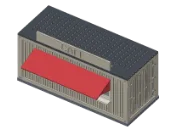
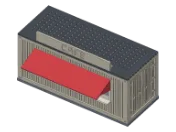
Buildings: a roof billboard's fins are parts of their own
The fins were part of the billboard, so it printed face down and its
text could only be carved. Now the board prints on its back, face up,
and its text is raised or cut in like any sign; each fin is a part of
its own, lying on its side, glued against the back of the board 3 mm
in from its end (a groove there would open onto the plate and print
over air). The V-groove carving is gone. The README says where the
fins go; five thumbnails are rendered afresh.

diff --git a/tests/lettering.test.js b/tests/lettering.test.js
@@ -2,9 +2,10 @@
 import test from 'node:test';
 import assert from 'node:assert/strict';
 import Module from 'manifold-3d';
-import { buildGarage, validateBuilding } from '../src/geometry/building.js';
+import { buildGarage, buildingLayout, validateBuilding } from '../src/geometry/building.js';
+const buildingLayoutIds = (b) => buildingLayout(b).parts.map((p) => p.id);
 import { BUILDING_PRESETS } from '../src/building-presets.js';
-import { LETTERS, LETTERING, checkText, fitHeight, textShape, textStrokes, textWidth, textCarve } from '../src/geometry/lettering.js';
+import { LETTERS, LETTERING, checkText, fitHeight, textShape, textStrokes, textWidth } from '../src/geometry/lettering.js';
 import { checkKit } from './print-checks.js';
 
 const wasm = await Module();
@@ -31,13 +32,10 @@ test('the letters: capitals and figures, as wide as they say, strokes thick enou
   assert.equal(textStrokes('A', 4).stroke, LETTERING.thinnest);
   assert.ok(Math.abs(textWidth('HQ', fitHeight('HQ', 30, 100)) - 30) < 1e-3, 'fits the width');
   assert.equal(fitHeight('HQ', 300, 12), 12, 'or the height');
-  // Carved: grooves no deeper than half again their width, inside the face.
-  const { solid, depth } = textCarve(wasm, own, 'HQ', 10);
-  assert.ok(depth > 0 && depth < 1.2 && Math.abs(solid.boundingBox().min[2] + depth) < 1e-6);
   temp.splice(0).forEach((s) => s.delete());
 });
 
-test('a fascia sign: its text raised on its face; a roof billboard: carved in', () => {
+test('a fascia sign and a roof billboard: their text raised on the face, or cut in', () => {
   const fascia = { ...plain, sign: 'fascia', signWidth: 100, signHeight: 14 };
   const bare = buildGarage(wasm, fascia), lettered = buildGarage(wasm, { ...fascia, signText: 'Pit stop' });
   try {
@@ -49,12 +47,17 @@ test('a fascia sign: its text raised on its face; a roof billboard: carved in', 
     free(lettered);
   }
   const board = { ...plain, sign: 'billboard', signWidth: 110, signHeight: 20 };
-  const plainBoard = buildGarage(wasm, board), carved = buildGarage(wasm, { ...board, signText: 'Race control' });
+  const plainBoard = buildGarage(wasm, board), raised = buildGarage(wasm, { ...board, signText: 'Race control' }), cut = buildGarage(wasm, { ...board, signText: 'Race control', signCut: true });
   try {
-    assert.ok(part(carved, 'sign').solid.volume() < part(plainBoard, 'sign').solid.volume() - 5, 'grooves cut');
+    const v = (ps) => part(ps, 'sign').solid.volume();
+    assert.ok(v(raised) > v(plainBoard) + 5 && v(cut) < v(plainBoard) - 5, 'raised or cut');
+    // Raised out of its face, which looks to the front and prints up.
+    assert.ok(Math.abs(part(raised, 'sign').solid.boundingBox().min[1] - (part(plainBoard, 'sign').solid.boundingBox().min[1] - LETTERING.depth)) < 1e-6);
+    assert.deepEqual(part(raised, 'sign').outward, [0, -1, 0]);
   } finally {
     free(plainBoard);
-    free(carved);
+    free(raised);
+    free(cut);
   }
   assert.throws(() => validateBuilding({ ...fascia, signWidth: 30, signText: 'Race control headquarters' }), /too small for/);
   assert.equal(validateBuilding({ ...fascia, signText: 'hq' }).signText, 'HQ');
@@ -110,7 +113,7 @@ test('lettering is checked: its wall, its letters, clear of ends, openings, door
   assert.equal(validateBuilding({ ...plain, upper: [{ height: 40, lettering: [line({ up: 20, text: 'hq' })] }] }).upper[0].lettering[0].text, 'HQ');
 });
 
-test('lettered kits print: whole pieces, nothing over air (carved billboard included), nothing in another part', () => {
+test('lettered kits print: whole pieces, nothing over air (roof billboard and its fins included), nothing in another part', () => {
   const plate = { width: 200, depth: 200, margin: 0 };
   for (const b of [
     { ...plain, wallTexture: 'brick', sign: 'fascia', signWidth: 110, signHeight: 14, signText: 'Pit lane', lettering: [line({ wall: 'left', at: 60 }), line({ wall: 'back', cut: true, text: 'No 7' })] },
@@ -213,4 +216,26 @@ test('every text can be cut in instead of raised: less than the plain part, stil
     else assert.ok(volumes.cut < volumes.plain - 1 && volumes.raised > volumes.plain + 1, (b.kind ?? 'garage') + ': ' + JSON.stringify(volumes));
   }
   assert.throws(() => validateBuilding({ kind: 'gantry', textCut: 'yes' }), /raised or cut/);
+});
+
+// The fins were part of the billboard, which then printed face down; now they are parts of
+// their own, so the board prints face up and its text can be raised.
+test('a roof billboard and its two fins: separate parts, each fin against the back of the board', () => {
+  const plate = { width: 200, depth: 200, margin: 0 };
+  for (const roof of [{ roof: 'flat' }, { roof: 'slope', rises: 'back', pitch: 15 }, { roof: 'gable', ridge: 'width', pitch: 20 }]) {
+    const b = { ...plain, ...roof, sign: 'billboard', signWidth: 110, signHeight: 20, signText: 'Timing' };
+    const parts = buildGarage(wasm, b, plate);
+    try {
+      const ids = parts.map((p) => p.id);
+      assert.ok(['sign', 'sign-fin-1', 'sign-fin-2'].every((id) => ids.includes(id)), roof.roof + ': ' + ids);
+      checkKit(parts, plate, roof.roof + ': ');
+      // Each fin stands against the back of the board, not in it.
+      const board = part(parts, 'sign').solid.boundingBox(), fin = part(parts, 'sign-fin-1').solid.boundingBox();
+      assert.ok(Math.abs(fin.min[1] - board.max[1]) < 1e-6, 'against the back');
+      assert.ok(fin.max[2] < board.max[2], 'no higher than the board');
+    } finally {
+      free(parts);
+    }
+  }
+  assert.deepEqual(validateBuilding({ ...plain, sign: 'billboard' }) && buildingLayoutIds({ ...plain, sign: 'billboard' }).filter((id) => id.startsWith('sign')), ['sign', 'sign-fin-1', 'sign-fin-2']);
 });

diff --git a/src/geometry/building.js b/src/geometry/building.js
@@ -24,7 +24,7 @@ import { buildWalkway, validateWalkway, walkwayLayout } from './walkway.js';
 import { buildPitBays, pitBaysLayout, validatePitBays } from './pit-bays.js';
 import { checkContainer, containerWall, containerRoof } from './container-details.js';
 import { kitShapes } from './kit-shapes.js';
-import { LETTERING, checkText, fitHeight, textCarve, textShape, textWidth } from './lettering.js';
+import { LETTERING, checkText, fitHeight, letterDepth, raisedText, textShape, textWidth } from './lettering.js';
 import { validateConnected, connectedLayout, buildConnected } from './connected-building.js';
 import { validateFootprint, footprintLayout, buildFootprint } from './footprint-building.js';
 
@@ -78,8 +78,8 @@ export const BUILDING_DEFAULTS = Object.freeze({
   // front edge. signWidth along the front, in the middle; signHeight its
   // height, a billboard's above the roof.
   sign: 'none',
-  signText: '', // lettered on the sign: raised on a fascia sign, cut into the face of a roof billboard
-  signCut: false, // a fascia sign's letters cut in, not raised (a roof billboard's are always carved)
+  signText: '', // lettered on the sign, raised
+  signCut: false, // the sign's letters cut in, not raised
   // Lettering on the walls of the ground floor: { wall, text, at (its middle along the wall), up (its middle above the floor), height, cut }.
   lettering: Object.freeze([]),
   signWidth: 80,
@@ -1112,6 +1112,7 @@ export function buildingLayout(input) {
       if (o.step) parts.push({ id: 'step-' + (i + 1), name: openingName(o, s.openings) + ' step', role: 'buildingBase' });
     });
   if (b.sign !== 'none') parts.push({ id: 'sign', name: b.sign === 'billboard' ? 'Billboard' : 'Sign', role: 'wall' });
+  if (b.sign === 'billboard') parts.push({ id: 'sign-fin-1', name: 'Billboard fin 1', role: 'frame' }, { id: 'sign-fin-2', name: 'Billboard fin 2', role: 'frame' });
   return { building: b, storeys, parts, doors };
 }
 
@@ -1972,8 +1973,10 @@ export function buildGarage(wasm, input, plate = null) {
     }
     // A billboard: a board standing on the roof just inside its front edge,
     // over the middle of the top storey, its foot following the roof; two
-    // fins behind it rest on the roof and hold it upright. It prints on its
-    // face, the fins up.
+    // fins behind it rest on the roof and hold it upright. The board prints on
+    // its back, its face up; the fins are parts of their own, lying on their
+    // side, each glued flat against the back of the board, 3 mm in from its end
+    // (a groove there would open onto the plate and print over air).
     if (b.sign === 'billboard') {
       const tops = storeys.at(-1);
       const roofs = own(Manifold.union(parts.filter((p) => p.role === 'roof').map((p) => p.solid)));
@@ -1998,19 +2001,24 @@ export function buildGarage(wasm, input, plate = null) {
       const k = (zc - zf) / (yb + fl - yf),
         n = Math.hypot(k, 1);
       const foot = Math.min(zf, zb, zc) - dip;
-      const board = box(x0, yf, foot, x1, yb, Math.max(zf, zb) + b.signHeight);
-      const fins = [x0 + 3, x1 - 3 - fw].map((fx) => sweep([[yb - 0.4, zb - dip], [yb - 0.4, zb + fh], [yb + fl, zc - dip]], [0, 1, 0], [0, 0, 1], [0, 0, 0], [1, 0, 0], fx, fx + fw));
-      let whole = own(Manifold.union([board, ...fins]));
-      // Its text carved into its face: the billboard prints face down, so raised letters would hang
-      // over air; V-grooves steeper than 45° print clean. The text's frame: x along, y up, z out of the face.
+      const top = Math.max(zf, zb) + b.signHeight;
+      let board = box(x0, yf, foot, x1, yb, top);
+      // The fins: against the back of the board, no higher than it.
+      const finTop = Math.min(zb + fh, top - 1.5);
+      const finAt = [x0 + 3, x1 - 3 - fw];
+      // Its text, raised on its face or cut into it: the face prints up. The text's frame: x along, y up, z out of the face.
       if (b.signText) {
-        const h = fitHeight(b.signText, b.signWidth - 4, b.signHeight - 4), shown = Math.max(zf, zb);
-        const { solid: carve } = textCarve(wasm, own, b.signText, h);
-        const u = (x0 + x1) / 2 - textWidth(b.signText, h) / 2, v = shown + b.signHeight / 2 - h / 2;
-        whole = own(whole.subtract(own(carve.transform([1, 0, 0, 0, 0, 0, 1, 0, 0, -1, 0, 0, u, yf, v, 1]))));
+        const h = fitHeight(b.signText, b.signWidth - 4, b.signHeight - 4);
+        const letters = own(raisedText(wasm, own, b.signText, h, [0, 0], ...letterDepth(b.signCut)).transform([1, 0, 0, 0, 0, 0, 1, 0, 0, -1, 0, 0, (x0 + x1) / 2, yf, Math.max(zf, zb) + b.signHeight / 2, 1]));
+        board = own(b.signCut ? board.subtract(letters) : board.add(letters));
       }
-      const solid = trim(whole, [0, -k / n, 1 / n], (zf - k * yf) / n);
-      parts.push({ id: 'sign', name: 'Billboard', role: 'wall', solid, outward: [0, 1, 0], apart: [0, 0, APART.roof + 25] });
+      // The board and the fins stand on the roof's plane.
+      const onRoof = (solid) => trim(solid, [0, -k / n, 1 / n], (zf - k * yf) / n);
+      parts.push({ id: 'sign', name: 'Billboard', role: 'wall', solid: onRoof(board), outward: [0, -1, 0], apart: [0, 0, APART.roof + 25] });
+      finAt.forEach((fx, i) => {
+        const fin = sweep([[yb, zb - dip], [yb, finTop], [yb + fl, zc - dip]], [0, 1, 0], [0, 0, 1], [0, 0, 0], [1, 0, 0], fx, fx + fw);
+        parts.push({ id: 'sign-fin-' + (i + 1), name: 'Billboard fin ' + (i + 1), role: 'frame', solid: onRoof(fin), outward: [1, 0, 0], apart: [i ? 8 : -8, 12, APART.roof + 25] });
+      });
     }
     if (b.standType !== 'none') {
       const H = b.standHeight;

diff --git a/src/building-kit.js b/src/building-kit.js
@@ -21,11 +21,10 @@ function letteringNote(b) {
   const lines = [...(b.lettering ?? []), ...(b.upper ?? []).flatMap((u) => u.lettering ?? [])];
   if (!lines.length && !(b.signText && b.sign !== 'none')) return [];
   const out = [];
-  if (b.signText && b.sign === 'fascia') out.push('“' + b.signText + '” ' + (b.signCut ? 'is cut 0.6 mm into' : 'stands 0.6 mm proud on') + ' the face of the sign.');
-  if (b.signText && b.sign === 'billboard') out.push('“' + b.signText + '” is carved into the face of the billboard in V-grooves, so it prints face down without supports.');
+  if (b.signText && b.sign !== 'none') out.push('“' + b.signText + '” ' + (b.signCut ? 'is cut 0.6 mm into' : 'stands 0.6 mm proud on') + ' the face of the ' + (b.sign === 'billboard' ? 'billboard' : 'sign') + '.');
   if (lines.some((l) => !l.cut)) out.push('Raised lettering on the walls: ' + lines.filter((l) => !l.cut).map((l) => '“' + l.text + '”').join(', ') + '.');
   if (lines.some((l) => l.cut)) out.push('Cut lettering on the walls: ' + lines.filter((l) => l.cut).map((l) => '“' + l.text + '”').join(', ') + '.');
-  return ['Lettering: ' + out.join(' ') + ' Paint raised letters with a fine brush, or roll a little paint over them on a flat card; fill cut or carved letters with paint and wipe the face clean while it is wet.'];
+  return ['Lettering: ' + out.join(' ') + ' Paint raised letters with a fine brush, or roll a little paint over them on a flat card; fill cut letters with paint and wipe the face clean while it is wet.'];
 }
 // The glazing template, when there are windows to glaze.
 const glazingNote = (b) => (glazingSheets(b).length ? ['Glazing: glazing.svg has the clear sheet for each window, full size. Print it at 100 %, cut the sheets from clear plastic 0.3 to 0.5 mm thick, and glue each behind its window on the inside of its wall before the walls go together.'] : []);
@@ -114,7 +113,7 @@ export function kitNotes(name, b, parts, sizes) {
     ...(parts.some((p) => /^counter/.test(p.id)) ? ['Glue each counter under its window, level, its fins flat against the wall below it.'] : []),
     ...(parts.some((p) => /^flap/.test(p.id)) ? ['Glue each flap over its window, propped open: the back edge of its two fins against the wall' + (framed ? ' or the frame' : '') + ' sets its angle.'] : []),
     ...(b.sign === 'fascia' ? ['Glue the sign along the top of the front wall, under the eaves, for the name of the stall.'] : []),
-    ...(b.sign === 'billboard' ? ['Stand the billboard on the roof at its front edge, its foot following the roof and its two fins resting on the roof behind it, and glue it.'] : []),
+    ...(b.sign === 'billboard' ? ['Glue the two fins upright against the back of the billboard, 3 mm in from each end, their long side on the roof behind it. Stand the billboard on the roof at its front edge, its foot following the roof, and glue it and its fins down.'] : []),
     ...(parts.some((p) => /^number/.test(p.id))
       ? [(b.upper?.[0]?.balcony ? 'Glue each bay number under the front edge of the balcony, over its door.' : 'Glue each bay number on the wall above its door.') + ' Paint the raised number, or print the plaque in two colours.']
       : []),

diff --git a/src/geometry/lettering.js b/src/geometry/lettering.js
@@ -117,33 +117,6 @@ export function textShape(wasm, own, text, height) {
 }
 
 /**
- * The text carved in V-grooves, for a face that prints face down: each
- * stroke a groove whose sides are steeper than 45°, so no part of it prints
- * over air. In the text's own frame: x along, y up the face, z out of it:
- * from just outside the face down to -depth. The strokes keep their places, thinner.
- */
-export function textCarve(wasm, own, text, height) {
-  const { Manifold } = wasm;
-  const { lines } = textStrokes(text, height);
-  const w = Math.min(1.6, Math.max(LETTERING.thinnest, height * 0.1)),
-    r = w / 2,
-    deep = r * 1.1;
-  const ring = (x, y, z, rr) => Array.from({ length: 12 }, (_, k) => [x + rr * Math.cos((k * Math.PI) / 6), y + rr * Math.sin((k * Math.PI) / 6), z]);
-  const bits = [];
-  for (const line of lines) {
-    for (const [x, y] of line) bits.push(own(Manifold.hull([...ring(x, y, 0.05, r), ...ring(x, y, 0, r), [x, y, -deep]])));
-    for (let i = 1; i < line.length; i++) {
-      const [x0, y0] = line[i - 1], [x1, y1] = line[i], len = Math.hypot(x1 - x0, y1 - y0);
-      if (len < 1e-6) continue;
-      const nx = (-(y1 - y0) / len) * r, ny = ((x1 - x0) / len) * r;
-      const face = (z) => [[x0 + nx, y0 + ny, z], [x0 - nx, y0 - ny, z], [x1 - nx, y1 - ny, z], [x1 + nx, y1 + ny, z]];
-      bits.push(own(Manifold.hull([...face(0.05), ...face(0), [x0, y0, -deep], [x1, y1, -deep]])));
-    }
-  }
-  return { solid: own(Manifold.union(bits)), depth: deep };
-}
-
-/**
  * Raised text on a face, as a solid to add to it: in the face's frame, u
  * along it, v up it, w out of it. Its middle at (u, v); from w0 (a little into
  * the face) out to the face plus the letters' depth.

diff --git a/src/buildings-page.js b/src/buildings-page.js
@@ -1225,8 +1225,6 @@ export function createBuildingsPage({ host, call, store, download, notice, plate
     else {
       for (const b of host.querySelectorAll('[data-bd-roof]')) b.setAttribute('aria-pressed', String(b.dataset.bdRoof === building.roof));
       $('[data-bd-sign-size]').hidden = building.sign === 'none';
-      // A roof billboard prints face down: its letters are always carved in.
-      $('[data-bd-sign-cut]').hidden = building.sign !== 'fascia';
       $('[data-bd-stand-size]').hidden = building.standType === 'none';
       $('[data-bd-column]').hidden = building.standType !== 'column';
       $('[data-bd-legs]').hidden = building.standType !== 'legs';

diff --git a/docs/GUIDE.md b/docs/GUIDE.md
@@ -213,7 +213,7 @@ The kit has a base plate (hollow underneath, with a groove for the walls), four 
 
 **Walkway bridge.** **Start from → Walkway bridge** is a covered walkway between two buildings, open at its ends where it meets them. Under **Walkway** set its **Length** to the gap between them, its **Width**, its **Wall height**, the **Deck above the table** as high as the floors it joins, the **Wall under the windows** and the **Panes along each side**; **On legs at its ends** stands it on legs, or leave it off to rest it on the buildings. **A tower at each end** makes it a whole piece: two towers (**Tower width**, **Tower depth**, **Tower height**, a **Pyramid** or **Flat** roof, windows up each front and back, one above the other), each built like a building of its own, a doorway in its wall where the walkway joins it at the height of its deck. **Control cab on top** puts a cab on the left, the right or both towers: a band of glazing leaning out, an open terrace over it under the roof. **Start from → Towers with a walkway** and **Control tower and crosswalk** (high over the track, a cab on the right tower) are made this way. Each side stands in a groove along the deck with a band of windows; the roof's two rails hold the sides apart. The deck prints the right way up, the roof upside down, the sides flat.
 
-**Serving hatches and signs.** A window can be a serving hatch: tick **Counter under it** for a level shelf below it, and **Flap propped open over it** for its shutter, leaning out over the window. Each prints flat, its top on the plate, with two small fins that stand up from it; glued on, the back edge of the fins lies on the wall (or on the window's frame) and sets the angle. **Flap angle, down from level** sets how far a flap leans out, from 0° (level) to 60°; its fins follow. A counter needs the window at least 15 mm up from the floor. **Sign** adds a board for the name of a stall, **Sign width** wide in the middle of the front: **Along the top of the front wall**, under the eaves, with everything in the front wall under it; or **A billboard on the roof**, standing up at the front edge of the roof, **Sign height** above it, its foot following the roof and two fins behind it resting on the roof. A billboard needs a roof that is level along the front: a flat roof, a single slope rising to the front or the back, or a two-sided roof with its ridge side to side. **Sign text** letters it, as large as the board allows with 2 mm clear all round: on a sign along the wall raised 0.6 mm, or 0.6 mm deep with **Cut in, not raised**, as it prints face up; on a roof billboard always carved in V-grooves steeper than 45°, because the billboard prints face down. **+ Lettering** under **Windows and doors** puts words on the chosen wall of the chosen storey: its **Text**, **Letters high** (4 to 40 mm), **Place** and **Up from the floor** (its middle), and **Cut in, not raised**. It keeps 4 mm from the ends of the wall and clear of windows, doors and their frames, the garage doors, the sign, the plinth and cornice, a container's rails, and other lettering; a texture keeps clear behind it, so the letters stand on a smooth patch. The letters are plain block capitals, A to Z, 0 to 9 and - + . , ' ! : / & #, their strokes at least 0.8 mm; lowercase letters come out as capitals. A billboard or hoarding by the track has **Text** too, raised on its face and shared by its pieces. Lettering shows in **Draw → Wall elevation**, and the README says how to paint it. Every other text has **Cut in, not raised** too, to engrave it rather than emboss it. A start gantry has **Board text** for its board (START, FINISH); on a lattice or timber board with start lights the text goes above them, and planks keep smooth behind it. A flag waver's post has **Board text** for its board, and a pit building a **Name board** along its fascia or over its doors: a flat plate with its letters raised or cut, glued on like the bay numbers, in their place. The standard buildings carry plain names, never brands: RACE CONTROL, RACE HQ, PRESS, VIP, CONTROL, a cross and FIRST AID, the marshal huts POST 1 to POST 6, the stalls' signs, START and FINISH on the gantries. Connected and shaped buildings have no lettering yet. **Start from → Container booth**, **Twin kiosk**, **Refreshment kiosk** and **Ticket office** are food and ticket stalls made this way, with two-sided roofs and billboards; print the ticket office twice for a pair.
+**Serving hatches and signs.** A window can be a serving hatch: tick **Counter under it** for a level shelf below it, and **Flap propped open over it** for its shutter, leaning out over the window. Each prints flat, its top on the plate, with two small fins that stand up from it; glued on, the back edge of the fins lies on the wall (or on the window's frame) and sets the angle. **Flap angle, down from level** sets how far a flap leans out, from 0° (level) to 60°; its fins follow. A counter needs the window at least 15 mm up from the floor. **Sign** adds a board for the name of a stall, **Sign width** wide in the middle of the front: **Along the top of the front wall**, under the eaves, with everything in the front wall under it; or **A billboard on the roof**, standing up at the front edge of the roof, **Sign height** above it, its foot following the roof and two fins behind it resting on the roof. A billboard needs a roof that is level along the front: a flat roof, a single slope rising to the front or the back, or a two-sided roof with its ridge side to side. **Sign text** letters it, as large as the board allows with 2 mm clear all round: raised 0.6 mm, or 0.6 mm deep with **Cut in, not raised**: a sign along the wall and a roof billboard both print face up. A roof billboard's two fins are parts of their own, glued against its back 3 mm in from each end. **+ Lettering** under **Windows and doors** puts words on the chosen wall of the chosen storey: its **Text**, **Letters high** (4 to 40 mm), **Place** and **Up from the floor** (its middle), and **Cut in, not raised**. It keeps 4 mm from the ends of the wall and clear of windows, doors and their frames, the garage doors, the sign, the plinth and cornice, a container's rails, and other lettering; a texture keeps clear behind it, so the letters stand on a smooth patch. The letters are plain block capitals, A to Z, 0 to 9 and - + . , ' ! : / & #, their strokes at least 0.8 mm; lowercase letters come out as capitals. A billboard or hoarding by the track has **Text** too, raised on its face and shared by its pieces. Lettering shows in **Draw → Wall elevation**, and the README says how to paint it. Every other text has **Cut in, not raised** too, to engrave it rather than emboss it. A start gantry has **Board text** for its board (START, FINISH); on a lattice or timber board with start lights the text goes above them, and planks keep smooth behind it. A flag waver's post has **Board text** for its board, and a pit building a **Name board** along its fascia or over its doors: a flat plate with its letters raised or cut, glued on like the bay numbers, in their place. The standard buildings carry plain names, never brands: RACE CONTROL, RACE HQ, PRESS, VIP, CONTROL, a cross and FIRST AID, the marshal huts POST 1 to POST 6, the stalls' signs, START and FINISH on the gantries. Connected and shaped buildings have no lettering yet. **Start from → Container booth**, **Twin kiosk**, **Refreshment kiosk** and **Ticket office** are food and ticket stalls made this way, with two-sided roofs and billboards; print the ticket office twice for a pair.
 
 **Storeys.** Under **Storeys**, **+ Storey** adds a storey on top, up to four in all. Each storey above is a building of its own: set its **Width**, **Depth** and **Wall height**, and where it stands, **From the left** and **From the front** walls of the storey below, outside to outside. It can be smaller than the storey below and set back, leaving a terrace, but it cannot reach past it. **Balcony in front** reaches the floor under it out over the front; **The balcony runs all round** reaches it out as far on every side, and **A railing round its floor** then runs along all four edges. **Start from → Pit tower** is an open pit box below, a planked storey and a cab leaning out on top, a staircase up the side to it, after the Reims pit tower (005T). **Start from → Race control tower** has four storeys: brick below, a balcony all round with lattice railings, an open cab on top. **Start from → Race headquarters** is a brick operations hall with a door and window rows, a terrace with lattice railings on top, a set-back leaning viewing cab, and a staircase up the right side. Windows can stand one above the other on a wall, with at least 6 mm of wall between them. Choose a storey there to set its **Windows and doors** and its wall texture under **Surface**; the garage door stays on the ground floor, and the roof sits on the top storey. Between two storeys lies a floor: it covers the storey below like a flat roof, its frame dropping inside the walls, with a groove on top where the walls of the next storey stand. The parts are named by storey, such as **Front wall, storey 2** and **Floor of storey 2**; a floor prints the right way up with its frame beside it. The README lays each floor and the walls on it in turn. Remove a storey with its **×**: the storeys above it go too.
 
